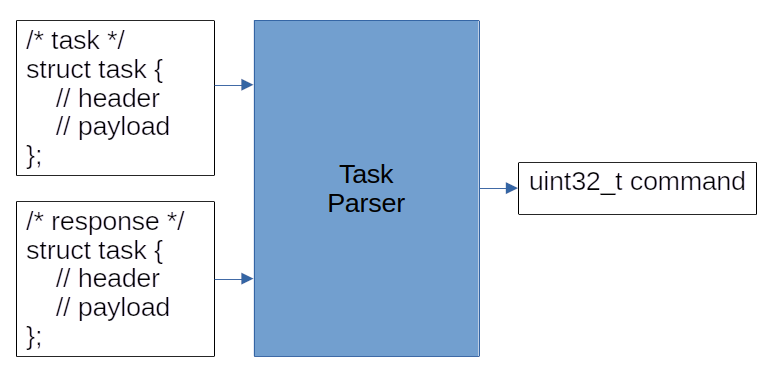
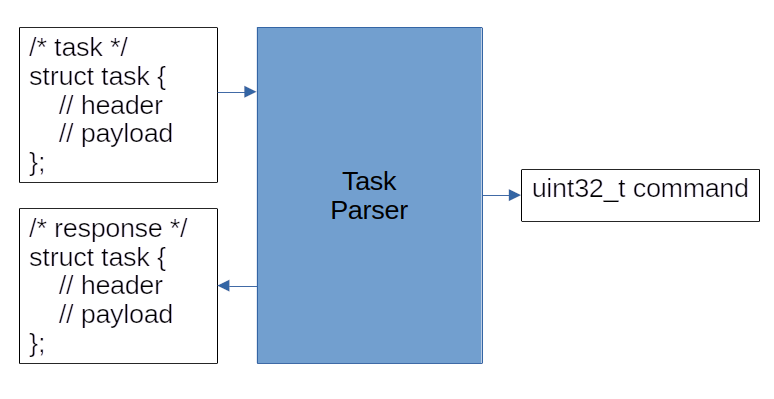
HDL flow image

diff --git a/README.md b/README.md
@@ -42,12 +42,46 @@ make wave                        # re-run the sim and open the wave file
 
 ## Basic Theory
 
-The task parser in this project is a stripped down version of parser I used to 
-work on at one of my previous jobs. Many of the reliability features have been 
-removed, but the basic premise that structured packets of data are converted 
-into a single command word used by internal logic is the same.
+At a previous job, I spent a lot of time writing embedded applications that
+were responsible for acting and responding to tasks over Ethernet connections.
+The implementation usually involved defining structs that represented task 
+messages that would be processed into whatever necessary data structure needed 
+by the task's action. Most actions would need to be carried out by custom IP 
+written internally. To make life easier on the IP designers, their data inputs 
+computed from task messages would be a single command word of some predefined 
+width. The width would be determined ahead of the finalized design and be large
+enough to handle all possible tasks for the application. For the purposes of 
+this project, command words can be assumed to be 32-bits wide.
 
 ![basic-task-flow](./icd/img/basic-task-flow.png)
+
+For 99.99% of the tasks, a software implementation was fast enough to meet 
+application requirements. The latency caused by the Ethernet LAN stack and 
+other background processing on the processor core running the task parser were
+negligble compared to the custom IP (think relay switching speeds). However, in 
+the 0.01% of tasks where latency was required to be as minimal as possible, a 
+faster/parallel HDL solution was needed. As stated earlier tasks were generally
+sent over Ethernet, and the FPGA vendor's Ethernet MAC IP just happened to use 
+streaming interfaces as the main mechanism for moving packets. This allowed 
+shim logic to be placed between the Ethernet MAC and the processor running the 
+software task parser. The shim was a "large" logic block that was responsible 
+for scanning packets from the Ethernet MAC and determining if the packet was 
+one of the application tasks. If the packet was an application task and if that
+particular task type was flagged for hardware processing, the shim would 
+redirect that packet to a logic block that could decode and execute that task:
+the HDL task parser.
+
+![hdl-task-flow](./icd/img/hdl-task-flow.png)
+
+
+
+
+
+
+
+
+
+
 
 __TODO__
 
